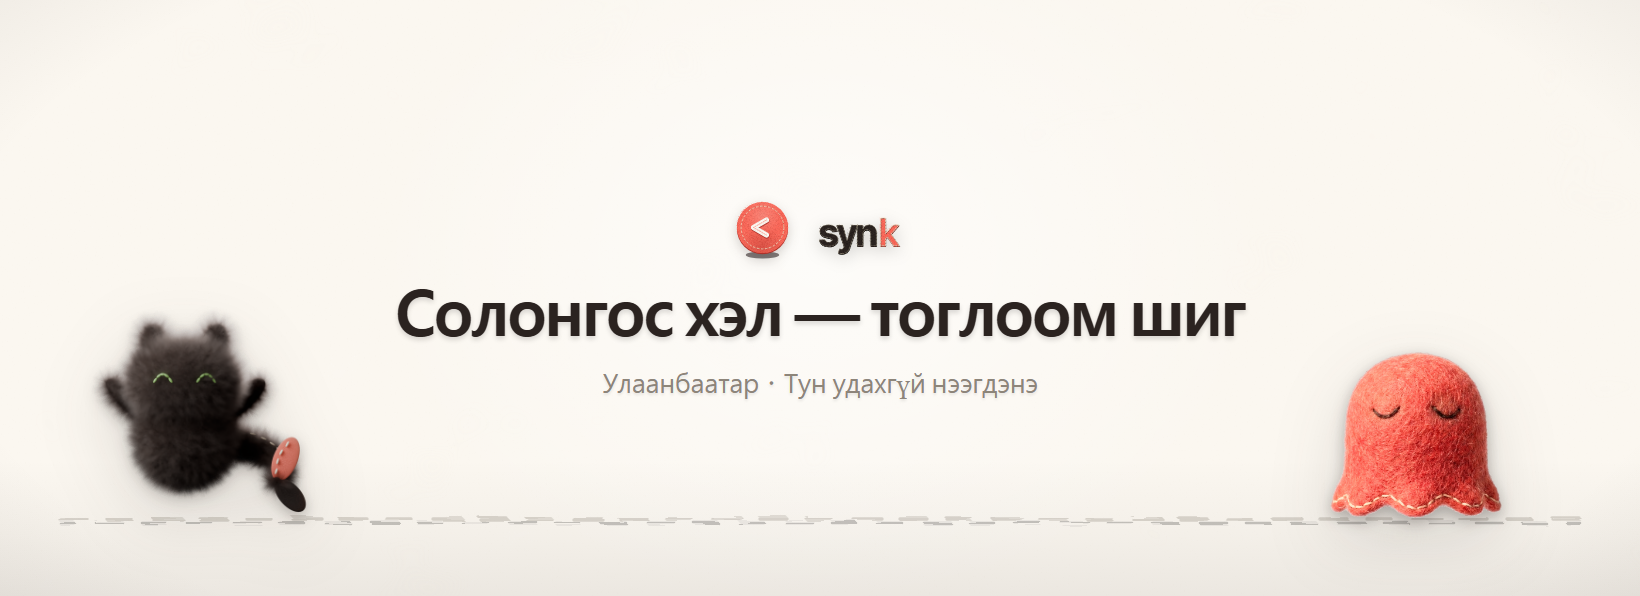
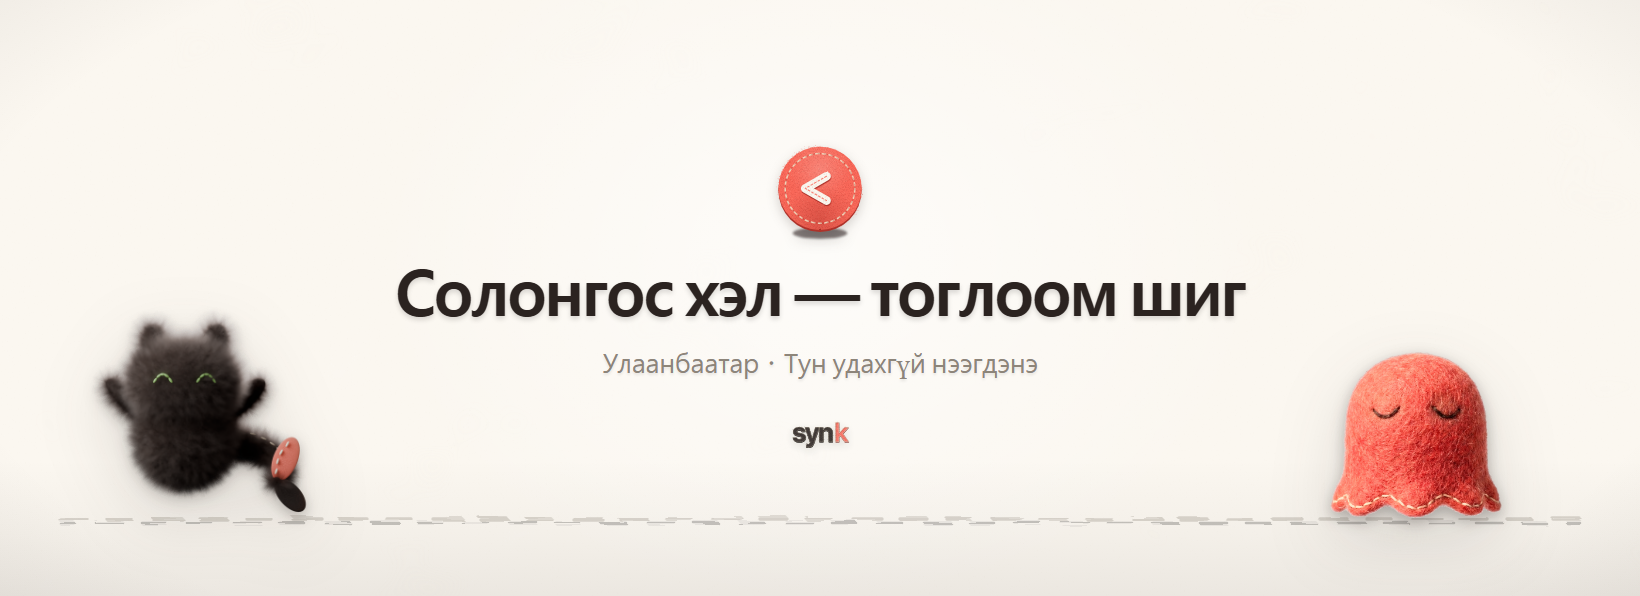
커버 락업을 걷고 «도장 위 · 이름 아래»로 (09-02 · 유호 눈검증)
유호 「저러니까 전 버전이 나은것같기도 · 임펙트가 좀 떨어져서 · 전 버전에서
아래에 synk 넣어주는게 더 깔끔할것같은데」.

🔑 임팩트가 떨어진 까닭이 둘이었다.
㉠ 도장과 워드마크를 가로로 나란히 놓으니 도장의 «점»이 «띠»로 늘어져
   시선을 한 곳에 못 잡는다
㉡ 락업 폭에 맞추려 도장을 150 → 92 로 줄인 것이 그 힘을 더 깎았다

⇒ 유호님 제안대로 도장은 위에서 크게, 이름은 아래에 작게.
   세로 축 하나에 강(도장) → 중(문안) → 약(이름) 이 흐르고 이름도 안 잃는다.
   서명 간격은 6 → 20 으로 벌렸다(붙으면 부제의 일부로 읽힌다).

Session-Id: local_952145a8-6e62-4dbc-a954-4a346559cbce

Changed region(s): [[0.2177, 0.2416, 0.7774, 0.5738], [0.3732, 0.604, 0.653, 0.6644], [0.4665, 0.6946, 0.5287, 0.755]]

diff --git a/tools/배너굽기.js b/tools/배너굽기.js
@@ -399,8 +399,15 @@ const 안들 = {
      * **페이스북 밖으로 나간다** — 그때 아래 페이지 이름은 안 따라간다.
      * 워드마크만 두는 판도 구워 봤는데 **문안과 같은 검정 굵은 글씨라 「제목이 둘」**이 됐다.
      * ⇒ 락업 — 도장(코랄 원)이 눈을 잡고 워드마크가 이름을 말한다. 색과 무게가 갈려 위계가 산다. */
-    락업: true,
-    도장크기: 92,
+    /* 🔴 락업(도장+워드마크 가로)을 걷었다 — **임팩트가 떨어졌다**(유호 09-02 눈검증).
+     * 까닭 둘: ㉠가로로 나란히 놓으니 도장의 «점»이 «띠»로 늘어져 시선을 한 곳에 못 잡는다
+     * ㉡락업에 맞추려 도장을 150→92 로 줄인 것이 그 힘을 더 깎았다.
+     * ⇒ 유호님 제안대로 **도장은 위에서 크게 · 이름은 아래에 작게**. 세로 축 하나에
+     *   강(도장) → 중(문안) → 약(이름) 이 흐르고, 이름도 잃지 않는다. */
+    도장: true,
+    도장크기: 150,
+    아래로고: true,
+    아래로고크기: 104,
     큰크기: 100,
     작은크기: 42,
     큰줄: 'Солонгос хэл — тоглоом шиг',
@@ -537,6 +544,11 @@ function 지면(안, 안내선) {
    * 폰트는 안 건드린다(킷 3규칙) — 이것은 활자가 아니라 «빛»의 층이다. */
   /* 락업 — 도장(기호)과 워드마크(이름)를 한 덩어리로. 「기호는 안에 들어온 자리, 이름은 보여주는
    * 순간」이라는 두 층이 **처음 오는 사람 앞에서는 동시에 필요하다** — 기호는 아는 사람에게만 신호다. */
+  /* 아래 서명 — 도장은 위에서 «점»으로 강하게, 이름은 아래에서 작게. 세로 축 하나에
+   * 강→중→약 이 흐른다. 락업(가로로 나란히)은 도장의 «점»을 띠로 늘여 임팩트를 깎았다. */
+  .아래로고{width:${재기(a.아래로고크기 || 104)}px;margin-top:${재기(20)}px;opacity:.88;
+    filter:drop-shadow(0 ${재기(4)}px ${재기(7)}px rgba(43,35,32,0.16));}
+  .아래로고 svg{width:100%;height:auto;display:block;}
   .락업{display:flex;align-items:center;gap:${재기(30)}px;}
   .락업 .로고{width:${재기(150)}px;}
   .도장{display:grid;place-items:center;filter:drop-shadow(0 ${재기(6)}px ${재기(10)}px rgba(43,35,32,0.20));}
@@ -561,6 +573,7 @@ function 지면(안, 안내선) {
       : (a.도장 ? `<div class="도장">${도장({ px: 재기(a.도장크기 || 150) })}</div>` : (a.로고없이 ? '' : `<div class="로고">${a.로고()}</div>`))}
     <p class="큰">${큰}</p>
     <p class="작은">${작은}</p>
+    ${a.아래로고 ? `<div class="아래로고">${a.로고()}</div>` : ''}
   </div>
 </div>`;
 }
